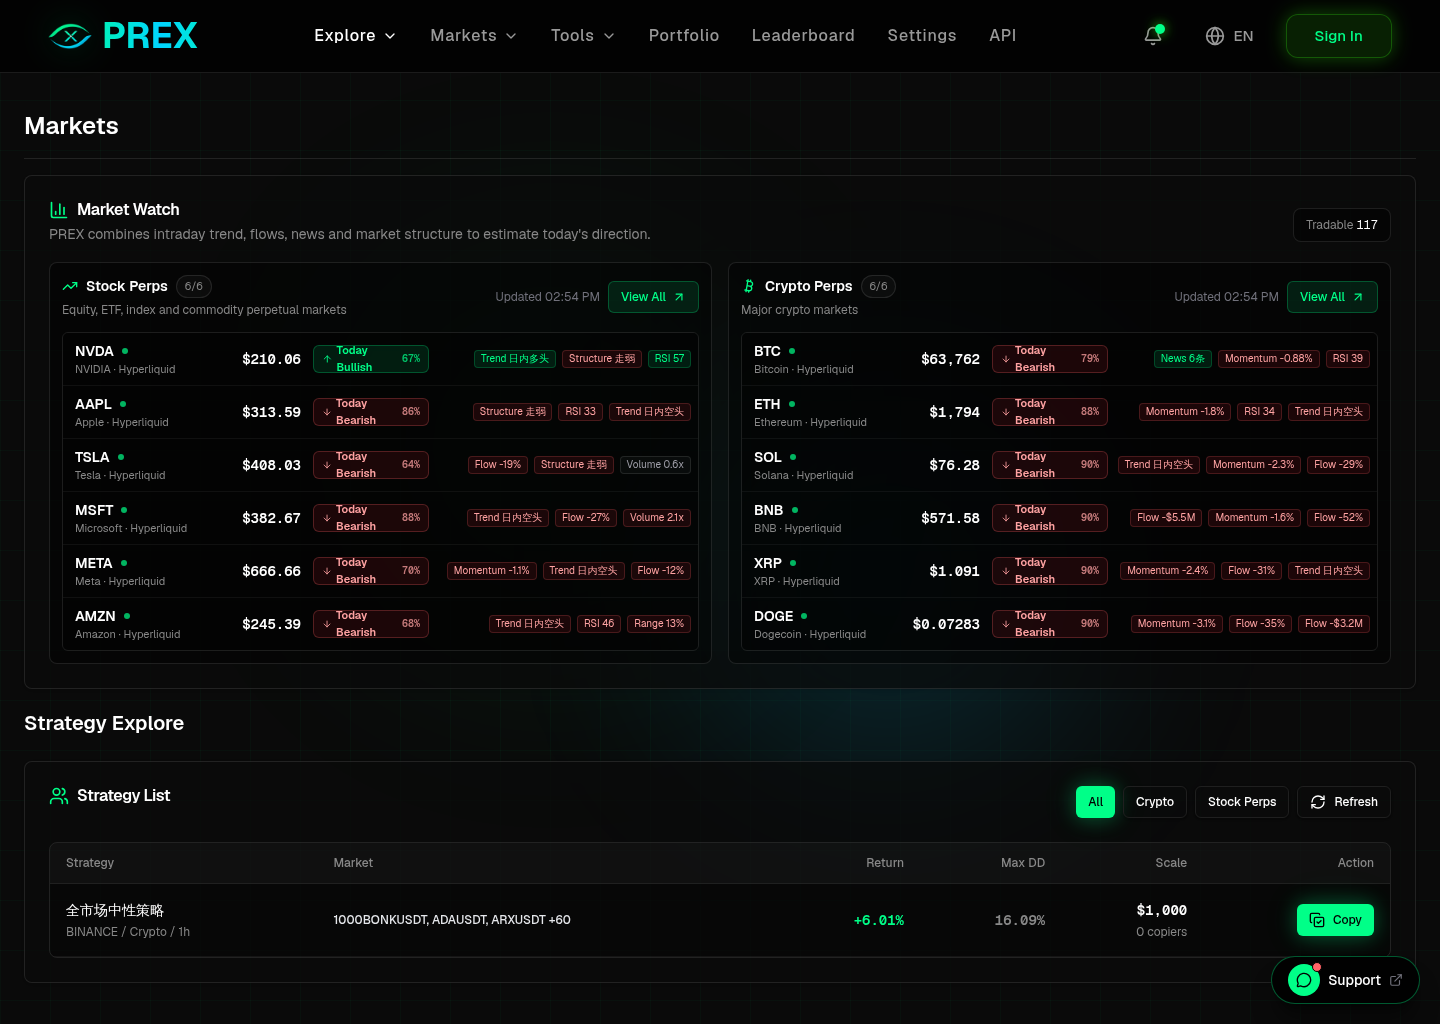
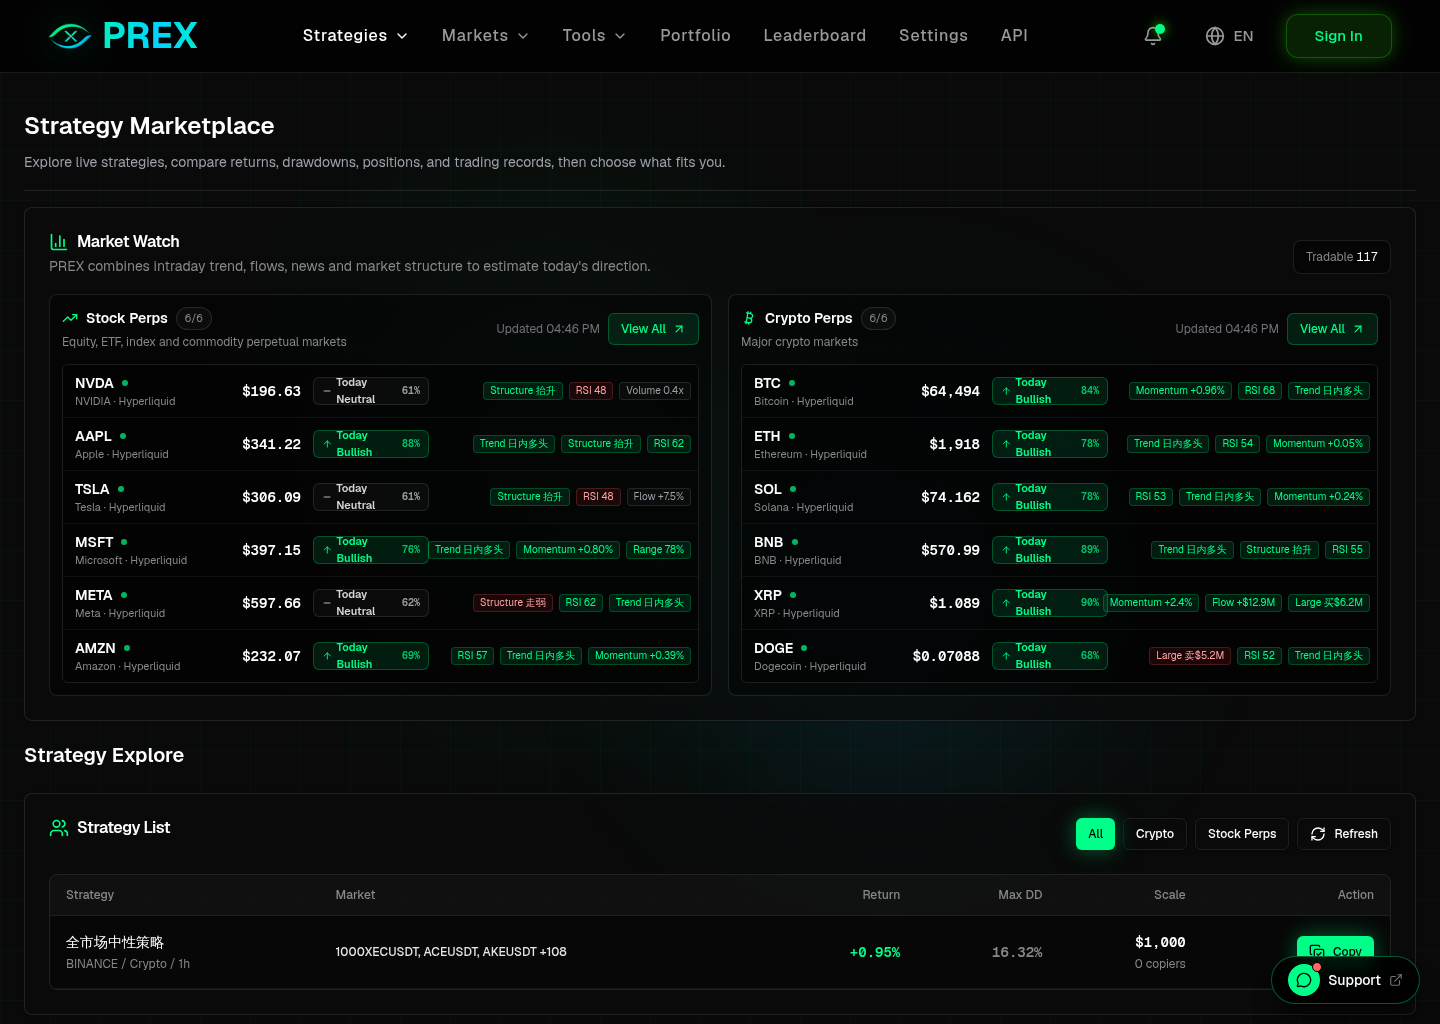
docs: add onboarding and Telegram alert showcase

diff --git a/README.md b/README.md
@@ -14,7 +14,9 @@ PREX helps users discover markets, evaluate strategies, run live execution, and 
 - Aggregates prediction-market data and trading flows.
 - Adds crypto and US stock contract workspaces with live prices, interactive candlesticks, leverage controls, market and limit orders, position closing, open orders, and trade history.
 - Adds PREX AI analysis for supported contract markets, combining trend, structure, momentum, volume, market flow, large orders, funding, news, and benchmark context.
+- Guides new users from opportunity discovery to AI analysis, strategy validation, and user-controlled execution through a first-login launcher and a dedicated workflow page.
 - Supports natural-language strategy backtesting and AI-assisted strategy drafting for exchange-traded strategies.
+- Connects users to the PREX Telegram Bot for qualified AI opportunity alerts and follow-up notifications when a setup is invalidated or reverses.
 - Supports Binance / OKX / Hyperliquid-oriented account flows where supported by the product surface.
 - Tracks live strategy performance, strategy rankings, and copy-trading setup flows.
 - Separates digital-asset strategies and stock-contract strategies in the strategy library.
@@ -28,6 +30,24 @@ PREX helps users discover markets, evaluate strategies, run live execution, and 
 ### Home
 
 ![PREX Home](assets/screenshots/home.png)
+
+### Guided First-Login Experience
+
+![PREX Guided Onboarding](assets/screenshots/onboarding.png)
+
+New users can jump directly into PREX AI analysis, natural-language backtesting, or the live strategy marketplace. Analysis and backtesting are highlighted as recommended starting points.
+
+### Discover, Analyze, Validate, And Execute
+
+![PREX Workflow Guide](assets/screenshots/workflow-guide.png)
+
+PREX presents the core journey as a clear three-step workflow: discover opportunities, analyze and validate them, then execute only under the user's control.
+
+### Telegram AI Opportunity Alerts
+
+![PREX Telegram AI Alerts](assets/screenshots/telegram-alerts.png)
+
+Users can connect `PREXSignalsBot` from Settings. PREX can deliver qualified opportunities and follow-up invalidation or reversal updates; it does not automatically place or close trades.
 
 ### US Stock Perpetuals
 
@@ -61,9 +81,11 @@ Illustrative historical market-neutral backtest from March 1 to July 21, 2026, i
 
 | Module | Description |
 | --- | --- |
+| Guided Onboarding | First-login goal selection and a dedicated three-step product workflow for analysis, backtesting, and live strategy discovery. |
 | Markets | Browse prediction markets, crypto contracts, and US stock contracts from one market surface. |
 | Contract Trading | Trade supported crypto and US stock contracts with leverage, market/limit orders, close flows, open orders, and trade history. |
 | PREX AI Analysis | Generate short-term market reads with direction, confidence, structure evidence, key levels, and quick-fill trade parameters. |
+| Telegram AI Alerts | Bind the PREX Telegram Bot to receive qualified opportunity alerts plus invalidation or reversal updates without automatic execution. |
 | Trading UX | Connect wallet or exchange account, manage order flow, and reduce manual switching between tools. |
 | Portfolio | Review prediction-market positions and connected exchange positions in one place. |
 | Backtesting | Describe a strategy in natural language, optionally use an AI model to draft it, and run factor-based backtests on exchange data. |
@@ -98,6 +120,8 @@ PREX 是一个面向全球市场的 AI Trading Agent 平台，覆盖预测市场
 - 聚合预测市场、加密货币合约和美股合约交易界面；
 - 支持合约实时价格、K 线、杠杆、市价/限价、平仓、委托、历史交易和止盈止损；
 - 支持 PREX AI 对合约市场进行短线方向、结构、资金流、大单、新闻和关键价位分析；
+- 提供首次登录小窗口与三步产品引导，帮助用户直接进入 AI 分析、自然语言回测或实盘策略广场；
+- 支持绑定 PREX Telegram Bot，推送满足统一标准的机会，并在机会失效或方向反转时发送更新；不会自动下单或平仓；
 - 支持自然语言策略回测和 AI 辅助策略生成；
 - 支持 Binance / OKX / Hyperliquid 相关账户和交易流程；
 - 支持策略库、排行榜、策略详情、跟单设置、数字资产 / 美股策略分类；

diff --git a/docs/FAQ.md b/docs/FAQ.md
@@ -12,6 +12,10 @@ Open [https://prex.best](https://prex.best).
 
 PREX is an AI trading agent platform for global markets. It helps users discover opportunities, evaluate strategies, run live execution, and manage risk across prediction markets, exchange-traded strategies, US stock perpetuals, and on-chain research tools.
 
+## How does PREX help a new user get started?
+
+PREX includes a first-login launcher with direct paths to AI market analysis, natural-language backtesting, and the live strategy marketplace. A separate workflow page explains the product journey from discovery to validation and user-controlled execution.
+
 ## What markets does PREX currently support?
 
 PREX currently includes prediction-market workflows, crypto contract and US stock contract trading surfaces, exchange-traded strategy research and execution workflows, and on-chain token research through the Meme Scanner.
@@ -27,6 +31,10 @@ Users can view supported crypto and stock contract markets, inspect live prices 
 ## Does PREX support backtesting?
 
 Yes. PREX supports natural-language strategy descriptions, AI-assisted strategy drafting, and factor-based backtesting for exchange-traded strategies. The showcase repository only describes the product surface and does not include the implementation.
+
+## Can PREX send AI opportunities to Telegram?
+
+Yes. An authenticated user can link `PREXSignalsBot` from Settings and receive qualified opportunities plus follow-up updates when a setup is invalidated or reverses. PREX does not automatically place or close orders from these notifications, and users can send `/stop` to unsubscribe.
 
 ## Does PREX support live trading?
 

diff --git a/docs/FEATURES.md b/docs/FEATURES.md
@@ -14,6 +14,32 @@ Current capabilities:
 - English and Chinese UI support across core surfaces.
 - Mobile web improvements for dense trading and strategy pages.
 
+## Guided Onboarding And Product Workflow
+
+PREX now gives new users a clearer path through the product.
+
+Current capabilities:
+
+- A first-login goal launcher that can take users directly to PREX AI analysis, natural-language backtesting, or the live strategy marketplace.
+- AI analysis and natural-language backtesting are highlighted as recommended starting points.
+- A dedicated workflow page explains the journey from opportunity discovery to analysis and validation, followed by user-controlled execution.
+- The home-page market CTA opens the US stock perpetual workspace directly.
+- The strategy navigation now uses clearer Strategy Marketplace, Backtest, and Live Management labels.
+
+## Telegram AI Opportunity Alerts
+
+PREX supports account-linked Telegram notifications through `PREXSignalsBot`.
+
+Current capabilities:
+
+- One-click Bot launch from the authenticated Settings page.
+- Secure account linking through a single-use start token.
+- Qualified AI opportunity notifications.
+- Follow-up messages when a setup is invalidated or reverses.
+- Test-message delivery and connection-state refresh.
+- `/stop` unsubscribe support.
+- Analysis intervals such as 15min and 1h describe the candle context; PREX does not automatically place or close orders.
+
 ## 2. Prediction Markets
 
 PREX provides a cleaner interface for discovering and inspecting prediction markets.

diff --git a/docs/CHANGELOG.md b/docs/CHANGELOG.md
@@ -2,6 +2,18 @@
 
 This changelog summarizes public product progress. It does not include source code, credentials, private infrastructure, or proprietary strategy logic.
 
+## 2026-07-29
+
+- Added a dedicated three-step product guide covering opportunity discovery, AI analysis and validation, and user-controlled execution.
+- Added a first-login launcher that routes users into PREX AI analysis, natural-language backtesting, or the live strategy marketplace.
+- Marked AI analysis and natural-language backtesting as the two recommended onboarding paths.
+- Renamed the strategy exploration area to Strategy Marketplace and clarified the navigation labels for Backtest and Live Management.
+- Updated the home-page View Markets action to open the US stock perpetual workspace.
+- Added authenticated Telegram Bot binding through `PREXSignalsBot`.
+- Added qualified AI opportunity notifications, test messages, status refresh, `/stop` unsubscribe, and follow-up updates for invalidated or reversed setups.
+- Reduced the guest natural-language backtest allowance from five runs to two before login is required.
+- Refreshed the public showcase screenshots for Home, Guided Onboarding, Product Workflow, Telegram AI Alerts, and Strategy Marketplace.
+
 ## 2026-07-21
 
 - Updated the US stock perpetuals product screenshot to show the full candlestick, order-entry, and PREX AI workspace.

diff --git a/docs/ROADMAP.md b/docs/ROADMAP.md
@@ -6,6 +6,7 @@ This roadmap is product-facing and may change as the platform evolves.
 
 - Improve the crypto and US stock contract trading workspaces, including more symbols, clearer exchange availability, and better order-state feedback.
 - Improve PREX AI analysis quality with richer market context, clearer uncertainty handling, and more useful quick-fill trade parameters.
+- Expand Telegram AI alerts with clearer signal lifecycle updates, delivery history, and additional user-controlled notification channels.
 - Improve prediction-market discovery and trade execution flows.
 - Improve natural-language strategy parsing for backtests and strategy creation.
 - Improve live-strategy execution reliability across Binance and OKX.
